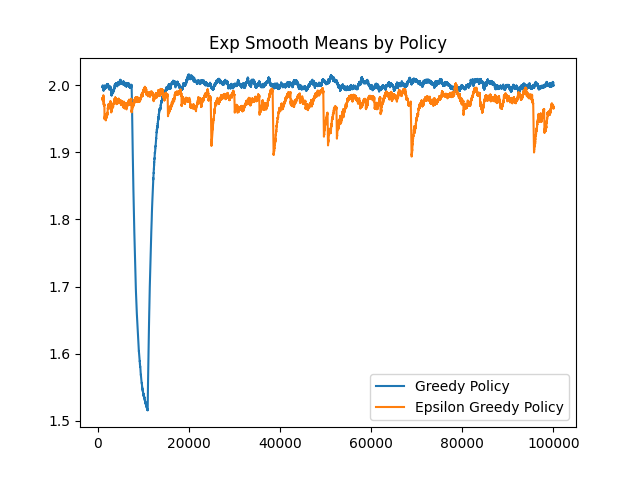
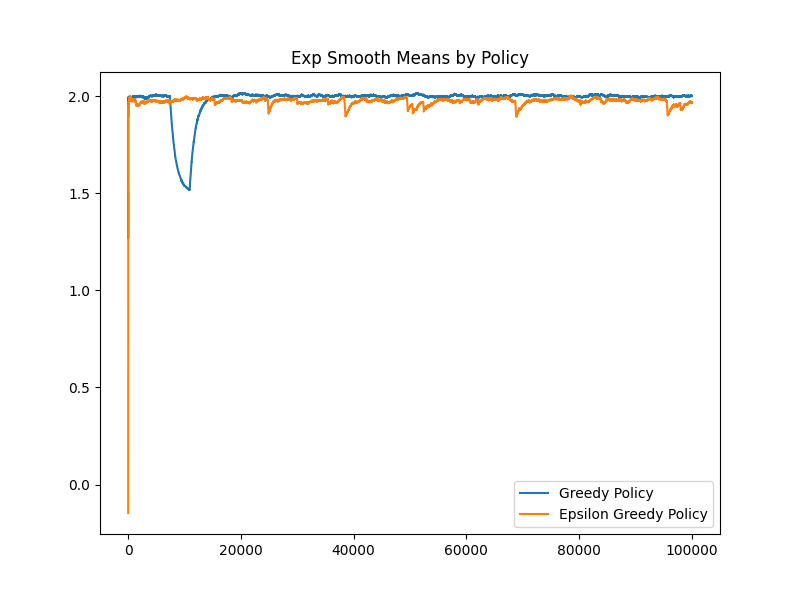
save figs automatically

diff --git a/stationary_problem/simulate.py b/stationary_problem/simulate.py
@@ -29,7 +29,7 @@ def main():
     eps_greedy = EpsilonGreedy(0.01, rlenv, 5.0)
 
     n_periods = 100000
-    n_rolling = 100
+    n_rolling = 1000
     n_warmup = 1000
     ewmalpha = 0.001
 
@@ -47,13 +47,23 @@ def main():
     egrd = pd.DataFrame({'Action':actions, 'Reward':rewards})
     print(egrd['Action'].value_counts())
 
-    #grd['Reward'].rename(greedy).rolling(window=n_rolling).mean().plot()
-    #egrd['Reward'].rename(eps_greedy).rolling(window=n_rolling).mean().plot()
+    fig, ax = plt.subplots(figsize=(8, 6))
+
+    grd['Reward'].rename(greedy).rolling(window=n_rolling).mean().plot(ax=ax)
+    egrd['Reward'].rename(eps_greedy).rolling(window=n_rolling).mean().plot(ax=ax)
+    plt.title(f'Rolling Means (mem={n_rolling}) by Policy')
+    plt.legend()
+    fig.savefig(os.path.join(path, 'Figure_2.png'))
+    plt.close()
+
+    fig, ax = plt.subplots(figsize=(8, 6))
+
     grd['Reward'].rename(greedy).ewm(alpha=ewmalpha).mean()[n_warmup:].plot()
     egrd['Reward'].rename(eps_greedy).ewm(alpha=ewmalpha).mean()[n_warmup:].plot()
     plt.title('Exp Smooth Means by Policy')
     plt.legend()
-    plt.show()
+    fig.savefig(os.path.join(path, 'Figure_1.png'))
+    plt.close()
 
 
 if __name__ == '__main__':

diff --git a/stationary_problem/environ.py b/stationary_problem/environ.py
@@ -112,7 +112,7 @@ class EpsilonGreedy(Policy):
         return np.random.choice(self.env.get_size(), p=prob)
         
     def __repr__(self):
-        return "Epsilon Greedy Policy"
+        return "Epsilon Greedy Policy eps={:.3f}".format(self.epsilon)
 
 class Greedy(Policy):
 

diff --git a/stationary_problem/Readme.md b/stationary_problem/Readme.md
@@ -1,3 +1,30 @@
 # Comparing Greedy and Eps-Greedy Policies
 
+## RL Environment
+- Bandit(avg_reward = 2.0, std_reward = 0.2)
+- Bandit(avg_reward = 1.5, std_reward = 0.1)
+- Bandit(avg_reward = 0.0, std_reward = 1.0)
+
+Optimal Values: [2.  1.5  0.0]
+
+
+## Greedy Policy
+
+- Average Reward: 1.983
+- Final Q-values: [2.16 1.14 1.03]
+- Action Frequency:
+    - 0:   96487
+    - 1:    3512
+    - 2:       1
+
+
+## Epsilon Greedy Policy (eps=0.1)
+- Average Reward: 1.974
+- Final Q-values: [1.64 1.36 1.39]
+- Action Frequency
+    - 0:   96303
+    - 1:    3128
+    - 2:     569
+
 ![plot](Figure_1.png)
+![plot](Figure_2.png)
